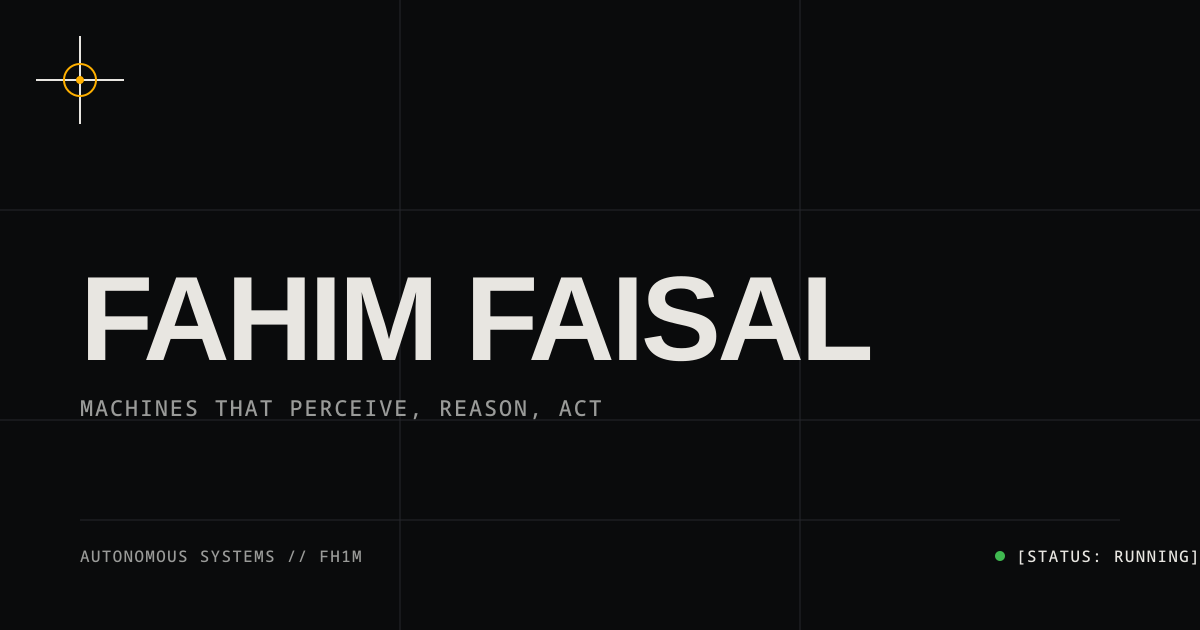
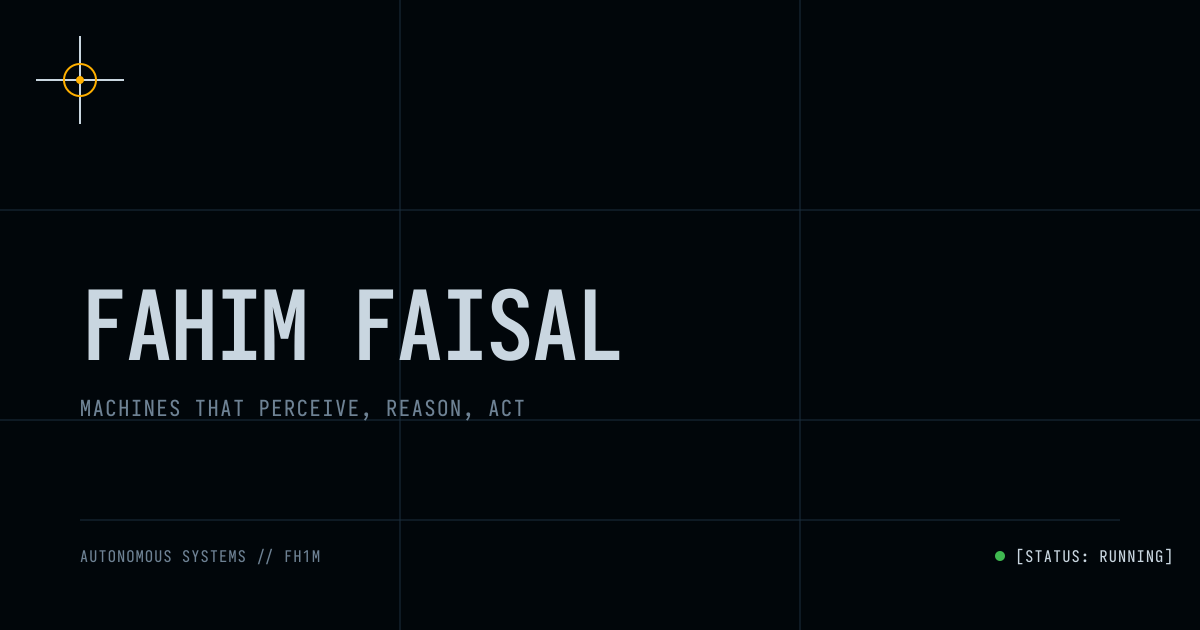
docs: og identity refresh and readme checklist extension

diff --git a/README.md b/README.md
@@ -6,9 +6,13 @@ A static personal site for Fahim Faisal — machines that perceive, reason, and 
 
 - Astro 5 (static output)
 - TypeScript
-- Self-hosted fonts (Archivo, JetBrains Mono, IBM Plex Sans, Instrument Serif via @fontsource)
+- Self-hosted fonts (Iosevka, Roboto Mono Variable, IBM Plex Sans, Instrument Serif via @fontsource)
 - GSAP + Lenis for motion, gated behind `prefers-reduced-motion`
 - No frontend frameworks, no CSS frameworks
+
+### Typography sizing note
+
+Iosevka is narrow (~0.5em advance) — display text fits roughly half the width of a typical grotesque at the same size. The display scale caps at 4.5rem (72px) and the mono floor is 12px (`--text-mono`); the old 9rem Archivo overflow fix (scoped 404 clamp) is no longer needed. All 800/900 display weights are normalized to 700 — only latin-400 + latin-700 are imported.
 
 ## Local run
 
@@ -52,7 +56,7 @@ Import the repo in Vercel — zero-config static deploy. No `vercel.json` needed
 
 Run before shipping. All copy is drafted — replace or correct anything that does not match reality.
 
-- [ ] `grep -r 'VERIFY' dist` returns 0 hits (currently 44 markers in built HTML — each one is a fact to confirm)
+- [ ] `grep -r 'VERIFY' dist` returns 0 hits (currently 52 markers in built HTML — each one is a fact to confirm)
 - [ ] `grep -riE 'passionate|innovative|cutting-edge|synergy|leveraging' dist` returns 0 hits (expect zero)
 - [ ] `grep -r '∞' dist` returns 0 hits
 - [ ] `grep -r '#000' dist` returns 0 hits
@@ -62,8 +66,12 @@ Run before shipping. All copy is drafted — replace or correct anything that do
 - [ ] RoboSub results are correct: 2023 runners-up (2nd), 2025 9th, 2026 8th (6230 pts)
 - [ ] Machine repo links and dates match GitHub (Duburi, duburi_ws, duburi-sim_ws, duburi-codebase_RND, calib_challenge_fh1m, Arduino-Vision, vision-scratch repos, secure-terminal-p2p-chat, toolchain repos)
 - [ ] Air / drones & GPS-denied navigation entry is confirmed (no public repo — drafted from the brief narrative)
+- [ ] AERD name and scope are confirmed (air-gnc entry + about chapter 01 "AERD / ROCKETS" — program name, dates, and what it actually covers)
+- [ ] Mongol Tori spelling is confirmed (duburi-sim_ws + about chapter 02 "MONGOL TORI" — repo README says "Mongla", v2 plan says "Mongol Tori")
+- [ ] Unauthorized Engineering collective name and framing confirmed (log phase-06 + now page + about chapter 08 "INDEPENDENT SYSTEMS / UE" — name, framing, motto-spirit line)
+- [ ] Subteam-lead role start date is confirmed (2025 — log phase-04/05)
+- [ ] Engineering-lead transition date is confirmed (2026 — log phase-05)
 - [ ] Notebook publish dates are confirmed (all are draft placeholders)
 - [ ] Log phase dates and role titles are confirmed (2022 start year, subteam-lead to engineering-lead arc)
 - [ ] Email link is real (currently `hello@fahimfaisal.dev` placeholder)
-- [ ] Unauthorized Engineering collective name and framing confirmed
 - [ ] Media: all machine pages show `[MEDIA: PENDING]` placeholders — no images or video are shipped yet
